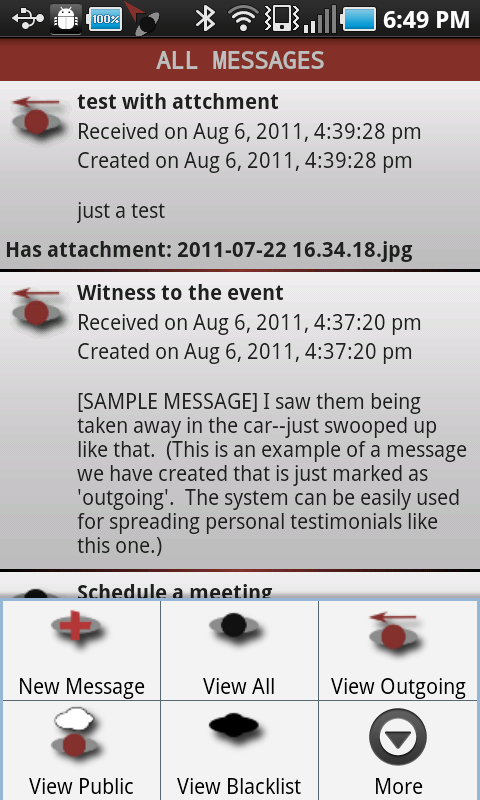
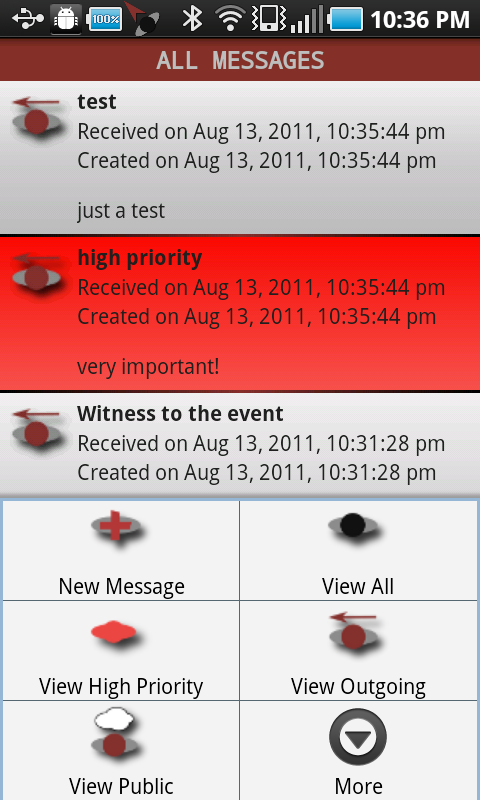
-- manual, download, and faq updates

diff --git a/FluidNexus/fluidnexus/static/manual.rst b/FluidNexus/fluidnexus/static/manual.rst
@@ -49,6 +49,20 @@ In this manual **Android** refers to the Android application, while **Desktop** 
 
 The following icons are used throughout the manual and in the applications themselves:
 
+.. |menu_outgoing| image:: images/menu_outgoing.png
+    :alt: Outgoing messages
+    :width: 48px
+
+|menu_outgoing| Outgoing messages
+    Messages that you've created and that will be passed to other devices running Fluid Nexus
+
+.. |menu_high_priority| image:: images/menu_high_priority.png
+    :alt: High priority messages
+    :width: 48px
+
+|menu_high_priority| High priority messages
+    Messages that have been marked as high priority; these can be considered *life or death* messages.
+
 .. |menu_public| image:: images/menu_public.png
     :alt: Public messages created by you
     :width: 48px
@@ -63,12 +77,6 @@ The following icons are used throughout the manual and in the applications thems
 |menu_public_other| Public messages created by someone else
     Messages that someone else has marked as public and will be pushed by yourself or someone else to the Nexus
 
-.. |menu_outgoing| image:: images/menu_outgoing.png
-    :alt: Outgoing messages
-    :width: 48px
-
-|menu_outgoing| Outgoing messages
-    Messages that you've created and that will be passed to other devices running Fluid Nexus
 
 .. |menu_all| image:: images/menu_all.png
     :alt: Other messages
@@ -193,6 +201,8 @@ New messages can be created by selecting the "New Message" menu item on Android 
     Desktop new message window
 
 Fill out the desired title and message.  Messages can be marked as potentially being sent to the Nexus by checking "Public (push to Nexus?)".  Attachments can be added as well.  In the Desktop application simply press "Choose File..." to open up a file dialog and select the desired attachment.  On Android, select the type of attachment (audio, image, video) and then tap "Add Attachment..." to open up the native file choosing application.
+
+You can also set the "priority" of the message.  Currently there are two options: "Normal" and "Life or Death".  *Only use the "Life or Death" option if someone's life depends on receiving the message*.
 
 .. figure:: images/android_new_message_attachment_type.png
     :alt: android new message attachment type
@@ -408,7 +418,7 @@ Fluid Nexus uses protocol buffers to share data.  The following documents our me
 
 Note that no directly identifying information is either sent in the message nor saved in the database.  The only way identifying information might be saved is via anything placed in the message itself.  Also note that there are no limitations on the length of the message.
 
-The application uses a SHA1 hash of the message title and message content to determine whether or not the message needs to be exchanged.  These hashes are first exchanged between devices to determine what needs to be sent.  Thus Fluid Nexus uses a type of `distributed hash table <https://secure.wikimedia.org/wikipedia/en/wiki/Distributed_hash_table>`_ with the goal of replicating the entire table amongst all devices.
+The application uses a SHA256 hash of the message title and message content to determine whether or not the message needs to be exchanged.  These hashes are first exchanged between devices to determine what needs to be sent.  Thus Fluid Nexus uses a type of `distributed hash table <https://secure.wikimedia.org/wikipedia/en/wiki/Distributed_hash_table>`_ with the goal of replicating the entire table amongst all devices.
 
 Network Modalities
 ------------------
